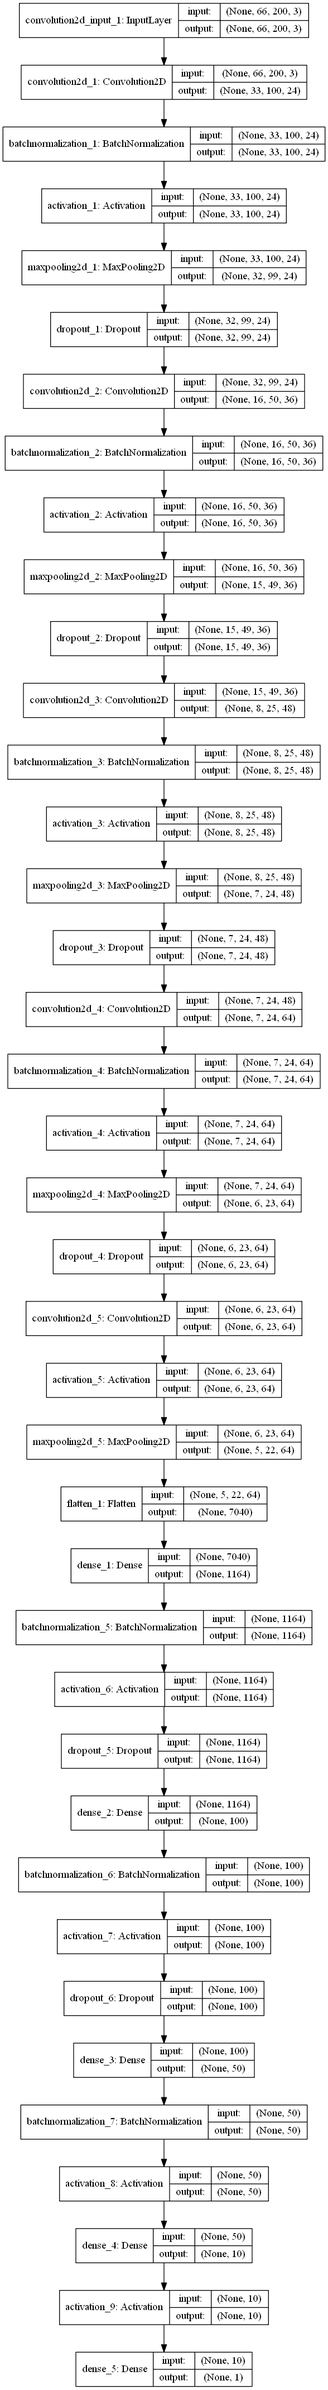
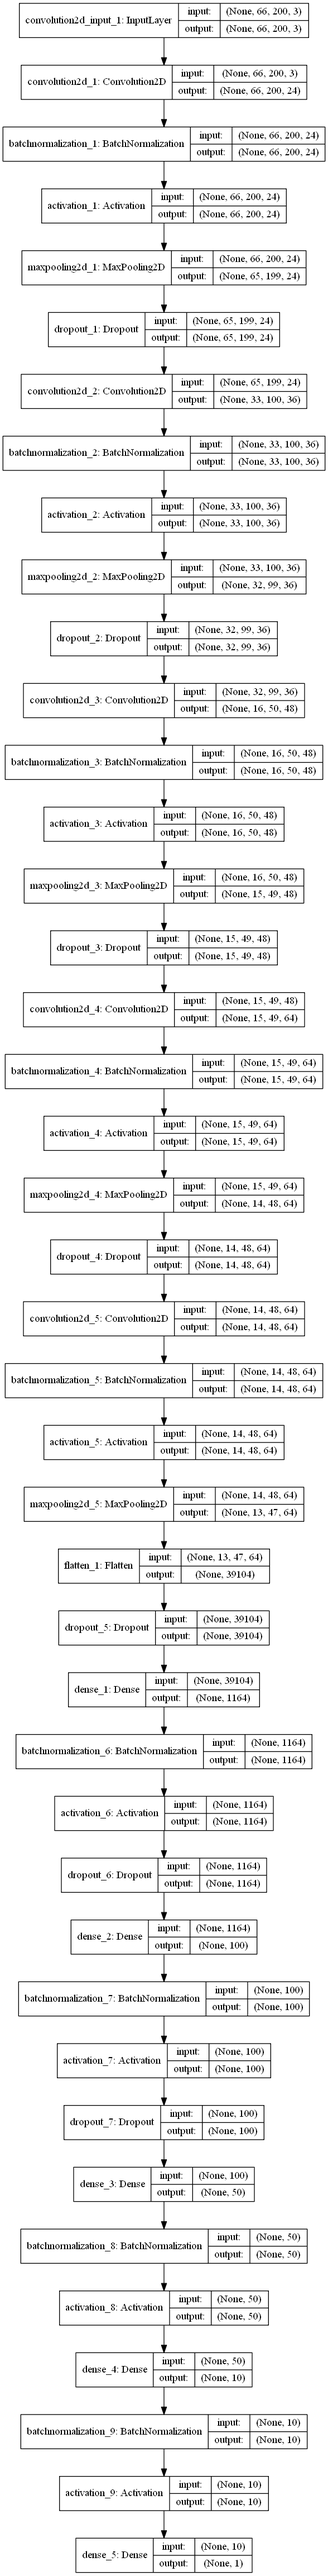
Cleanup and notebook updates

Changed region(s): [[0.0306, 0.0, 1.0, 1.0], [0.0612, 0.9325, 0.0918, 0.9635]]

diff --git a/train.py b/train.py
@@ -1,4 +1,3 @@
-from keras.models import Sequential
 from keras.layers import Dense, Flatten, Dropout, Activation, MaxPooling2D, ELU, BatchNormalization
 from keras.layers.convolutional import Convolution2D
 from keras.models import Sequential
@@ -7,24 +6,17 @@ from keras import backend as K
 import matplotlib.pyplot as plt
 from keras.utils.visualize_util import plot
 from keras.callbacks import EarlyStopping
-
-
 from imageHandler import imageHandler
 
 epoch_count = 10
 learn_rate = 0.0001
 data_folders = [
-                # "./data/straight-bridge",
                 "./data/bridge-turn",
-                # "./data/track-3",
-                # "./data/straight-corners",
                 "./data/straight-recovery",
                 "./data/center",
                 "./data/recover-unpatched",
-                "./data/wiggle",#,
-                # "./data/straight-reverse"]#,
-                "./data/straight-smooth"]#,
-                 # "./data/straight-recovery-side"]
+                "./data/wiggle",
+                "./data/straight-smooth"]
 
 imgH = imageHandler(data_folders)
 data_count = imgH.get_data_count()
@@ -43,7 +35,6 @@ def plot_history(history):
 def comma_model():
     model = Sequential()
     model.add(BatchNormalization(input_shape=(160, 320, 3)))
-    # model.add(Convolution2D(16, 8, 8,input_shape=(160, 320, 3), subsample=(4, 4), border_mode="same"))
     model.add(Convolution2D(16, 8, 8, subsample=(4, 4), border_mode="same"))
     model.add(ELU())
     model.add(Dropout(.5))
@@ -63,43 +54,37 @@ def comma_model():
     model.compile(optimizer=Adam(lr=0.0001), loss="mse")
     return model
 
-
 def nvidia_model():
     model = Sequential()
-
-    # model.add(BatchNormalization(input_shape=(66, 200, 3)))
-    # model.add(Convolution2D(24, 5, 5, border_mode='same', subsample=(2, 2)))
-    model.add(Convolution2D(24, 5, 5, input_shape=(66, 200, 3), border_mode='same'))
+    model.add(Convolution2D(24, 5, 5, input_shape=(66, 200, 3), border_mode='same', subsample=(2, 2)))
     model.add(BatchNormalization())
     model.add(Activation('relu'))
     model.add(MaxPooling2D(pool_size=(2, 2), strides=(1, 1)))
-    # model.add(Dropout(0.2))
+    model.add(Dropout(0.2))
 
     model.add(Convolution2D(36, 5, 5, border_mode='same', subsample=(2, 2)))
     model.add(BatchNormalization())
     model.add(Activation('relu'))
     model.add(MaxPooling2D(pool_size=(2, 2), strides=(1, 1)))
-    # model.add(Dropout(0.2))
+    model.add(Dropout(0.2))
 
     model.add(Convolution2D(48, 3, 3, border_mode='same', subsample=(2, 2)))
     model.add(BatchNormalization())
     model.add(Activation('relu'))
     model.add(MaxPooling2D(pool_size=(2, 2), strides=(1, 1)))
-    # model.add(Dropout(0.4))
+    model.add(Dropout(0.2))
 
     model.add(Convolution2D(64, 3, 3, border_mode='same', subsample=(1, 1)))
     model.add(BatchNormalization())
     model.add(Activation('relu'))
     model.add(MaxPooling2D(pool_size=(2, 2), strides=(1, 1)))
-    # model.add(Dropout(0.4))
+    model.add(Dropout(0.2))
 
     model.add(Convolution2D(64, 3, 3, border_mode='same', subsample=(1, 1)))
-    model.add(BatchNormalization())
     model.add(Activation('relu'))
     model.add(MaxPooling2D(pool_size=(2, 2), strides=(1, 1)))
+
     model.add(Flatten())
-    model.add(Dropout(0.5))
-
     model.add(Dense(1164))
     model.add(BatchNormalization())
     model.add(Activation('relu'))
@@ -113,70 +98,10 @@ def nvidia_model():
     model.add(Dense(50))
     model.add(BatchNormalization())
     model.add(Activation('relu'))
-    # model.add(Dropout(0.2))
 
     model.add(Dense(10))
-    model.add(BatchNormalization())
     model.add(Activation('relu'))
-    model.add(Dense(1))
-    model.compile(optimizer=Adam(learn_rate), loss="mse")
-    model.summary()
-    return model
 
-
-def nvidia_model_2():
-    model = Sequential()
-    # model.add(BatchNormalization(input_shape=(66, 200, 3)))
-    # model.add(Convolution2D(24, 5, 5, border_mode='same', subsample=(2, 2)))
-    model.add(Convolution2D(24, 5, 5, input_shape=(66, 200, 3), border_mode='same',
-                            subsample=(2, 2), kernel_initializer='he_normal', bias_initializer='zeros'))
-    model.add(BatchNormalization())
-    model.add(Activation('relu'))
-    model.add(MaxPooling2D(pool_size=(2, 2), strides=(1, 1)))
-    model.add(Dropout(0.5))
-
-    model.add(Convolution2D(36, 5, 5, border_mode='same', subsample=(2, 2),
-                            kernel_initializer='he_normal', bias_initializer='zeros'))
-    model.add(BatchNormalization())
-    model.add(Activation('relu'))
-    model.add(MaxPooling2D(pool_size=(2, 2), strides=(1, 1)))
-    model.add(Dropout(0.4))
-
-    model.add(Convolution2D(48, 3, 3, border_mode='same', subsample=(2, 2),
-                            kernel_initializer='he_normal', bias_initializer='zeros'))
-    model.add(BatchNormalization())
-    model.add(Activation('relu'))
-    model.add(MaxPooling2D(pool_size=(2, 2), strides=(1, 1)))
-    model.add(Dropout(0.4))
-
-    model.add(Convolution2D(64, 3, 3, border_mode='same', subsample=(1, 1),
-                            kernel_initializer='he_normal', bias_initializer='zeros'))
-    model.add(BatchNormalization())
-    model.add(Activation('relu'))
-    model.add(MaxPooling2D(pool_size=(2, 2), strides=(1, 1)))
-    model.add(Dropout(0.4))
-
-    model.add(Convolution2D(64, 3, 3, border_mode='same', subsample=(1, 1),
-                            kernel_initializer='he_normal', bias_initializer='zeros'))
-    model.add(Activation('relu'))
-    # model.add(MaxPooling2D(pool_size=(2, 2), strides=(1, 1)))
-    model.add(MaxPooling2D(pool_size=(2, 2), strides=(1, 1)))
-    #
-    model.add(Flatten())
-    model.add(Dense(1164, kernel_initializer='he_normal', bias_initializer='zeros'))
-    model.add(BatchNormalization())
-    model.add(Activation('relu'))
-    model.add(Dropout(0.5))
-    model.add(Dense(100, kernel_initializer='he_normal', bias_initializer='zeros'))
-    model.add(BatchNormalization())
-    model.add(Activation('relu'))
-    model.add(Dropout(0.5))
-    model.add(Dense(50, kernel_initializer='he_normal', bias_initializer='zeros'))
-    model.add(BatchNormalization())
-    model.add(Activation('relu'))
-    # model.add(Dropout(0.2))
-    model.add(Dense(10, kernel_initializer='he_normal', bias_initializer='zeros'))
-    model.add(Activation('relu'))
     model.add(Dense(1))
     model.compile(optimizer=Adam(learn_rate), loss="mse")
     model.summary()
@@ -187,7 +112,7 @@ model = nvidia_model()
 early_stopping = EarlyStopping(monitor='val_loss', patience=2, min_delta=0.0002, mode='min')
 train_samples = data_count[0] - data_count[0]%128
 val_samples = data_count[1] - data_count[1]%128
-hist = model.fit_generator(generator=imgH.get_training_batch(), samples_per_epoch=train_samples, nb_epoch=20,
+hist = model.fit_generator(generator=imgH.get_training_batch(), samples_per_epoch=train_samples, nb_epoch=12,
                                      validation_data=imgH.get_validation_batch(), nb_val_samples=val_samples, callbacks=[early_stopping])
 
 plot(model, to_file='model.png', show_shapes=True)

diff --git a/drive.py b/drive.py
@@ -47,7 +47,7 @@ def telemetry(sid, data):
         image_array = crop_and_resize(image_array, 'nvidia')
         steering_angle = float(model.predict(image_array[None, :, :, :], batch_size=1))
         if float(speed) < 20:
-            throttle = 0.12
+            throttle = 0.13
         else:
             throttle = 0.1
         print(steering_angle, throttle)

diff --git a/README.md b/README.md
@@ -17,37 +17,39 @@ python drive.py model.h5
 
 ##### Model Architecture:
 Two different models were looked into during the implementation phase, they were [comma.ai](https://arxiv.org/abs/1608.01230) model and [Nvidia Model](https://images.nvidia.com/content/tegra/automotive/images/2016/solutions/pdf/end-to-end-dl-using-px.pdf)   
-As part of final implementation a modified version of nvidia model was used. The nvidia model is shown below.
-
-![Nvidia model](./imgs/nvidia.JPG)
+As part of final implementation a modified version of nvidia model was used. The architecture of final trained model is shown below.
+![Trained model](./model.png)
+- In windows due to the [issue](https://stackoverflow.com/questions/41847376/keras-model-to-json-error-rawunicodeescape-codec-cant-decode-bytes-in-posi) with unicode parsing in lambda layer of tensorflow, instead of adding normalization layer, each image is first normalized as part of the batch generator in _imageHandler.py: process_batch()_.
+- Batch normalization is used after Convolution layers and Dense layers.
 - RELU Activation was used as activation layer.
 - Max pooling was done after each convolutional layer.
 - 'same' image padding was used instead of 'valid'.
-- As an attempt to reduce over fitting dropout of 0.28 was added before the first fully connected layer.
-These changes were done based on driving accuracy on the simulator and was a trial and error approach.
+- As an attempt to reduce over fitting dropout of 0.2 is added after convolution layers and a dropout of 0.5 is added after dense layers.
+   -These changes were done based on driving accuracy on the simulator and was a trial and error approach.
 - Though Adam optimizer was used for optimization, it was set to an initial training rate of 0.0001 instead of default.
 - An 80: 20 split of randomly shuffle data was used to train and validate image.
-- Different epoch were tried during the training: 8, 10, 12, 15 and 8 was finally choosen for best performance of all.
+- Initially training was done with an epoch of 30 with an EarlyStopping callback registered. Though validation error decreased till 30 epochs, the model was slow in reacting to corners in simulator and hence epoch was reduced to 20.
 
 ##### Data collection strategy.
 - The quality of the collected data had significant impact on the driving accuracy in this project.
 - An initial attempt was made to collect extensive data in straight and driving in opposite direction in the track-1. But the model failed on bridge corners.
-In the final approach following were the collected data:
+  In the final approach following were the collected data:
 - straight-recovery: 20313(including left, center and right camera) images of slow recovery from side.  
-![straight recovery](./imgs/center_2017_04_21_17_35_49_845.jpg)
+  ![straight recovery](./imgs/center_2017_04_21_17_35_49_845.jpg)
 - wiggle : 23655 images of fast course correction between the lane lines.  
-![wiggle](./imgs/center_2017_04_22_23_35_45_301.jpg)
+  ![wiggle](./imgs/center_2017_04_22_23_35_45_301.jpg)
 - recover-unpatched : 2244 images of recovering near special cases of track, including curve after the bridge.  
-![unpatched](imgs/center_2017_04_22_23_57_33_281.jpg)
+  ![unpatched](imgs/center_2017_04_22_23_57_33_281.jpg)
 - center : 20976 image of driving with vehicle on center of the track.  
-![center](./imgs/center_2017_04_23_03_24_11_543.jpg)
+  ![center](./imgs/center_2017_04_23_03_24_11_543.jpg)
 - Data collection was made with speed in and around 20, also throttle was limited to keep the trained model within speed range of 20.
 
 ##### Reducing overfitting:
-- Dropout was introduced to reduce overfitting.
+- Dropout was introduced to reduce overfitting for both convolution and dense layers.
+- EarlyStopping callback was registered to stop training in case validation accuracy failing to improve.
 - Images were randomly perturbed, images were sheared or flipped randomly to better generalize the model.
 - Angle correction were added to the left and right camera images to help in steering recovery.
-
+- 
 ##### Conclusion:
 - A recorded [video](./video.mp4) of the model is part of this submission.
 - The model was extremely susceptible to the type of data collected, as such a much more generalized model using transfer learning, from model trained on actual road scenes need to be tried.
